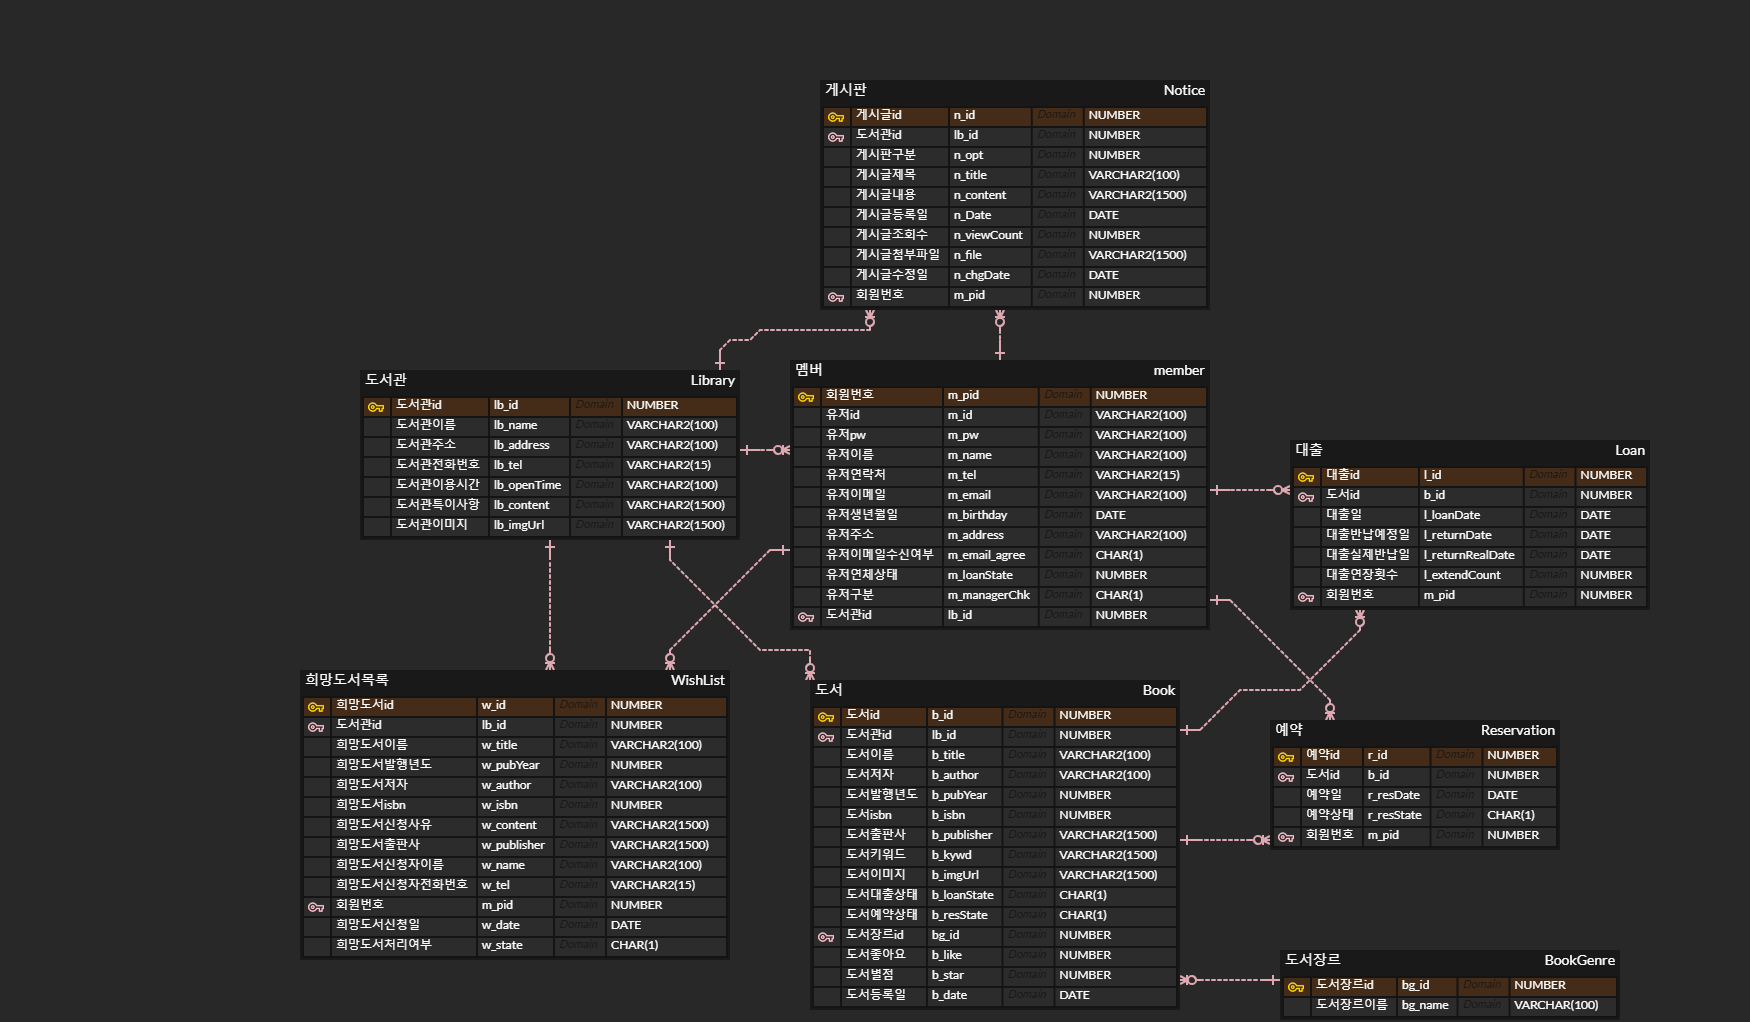
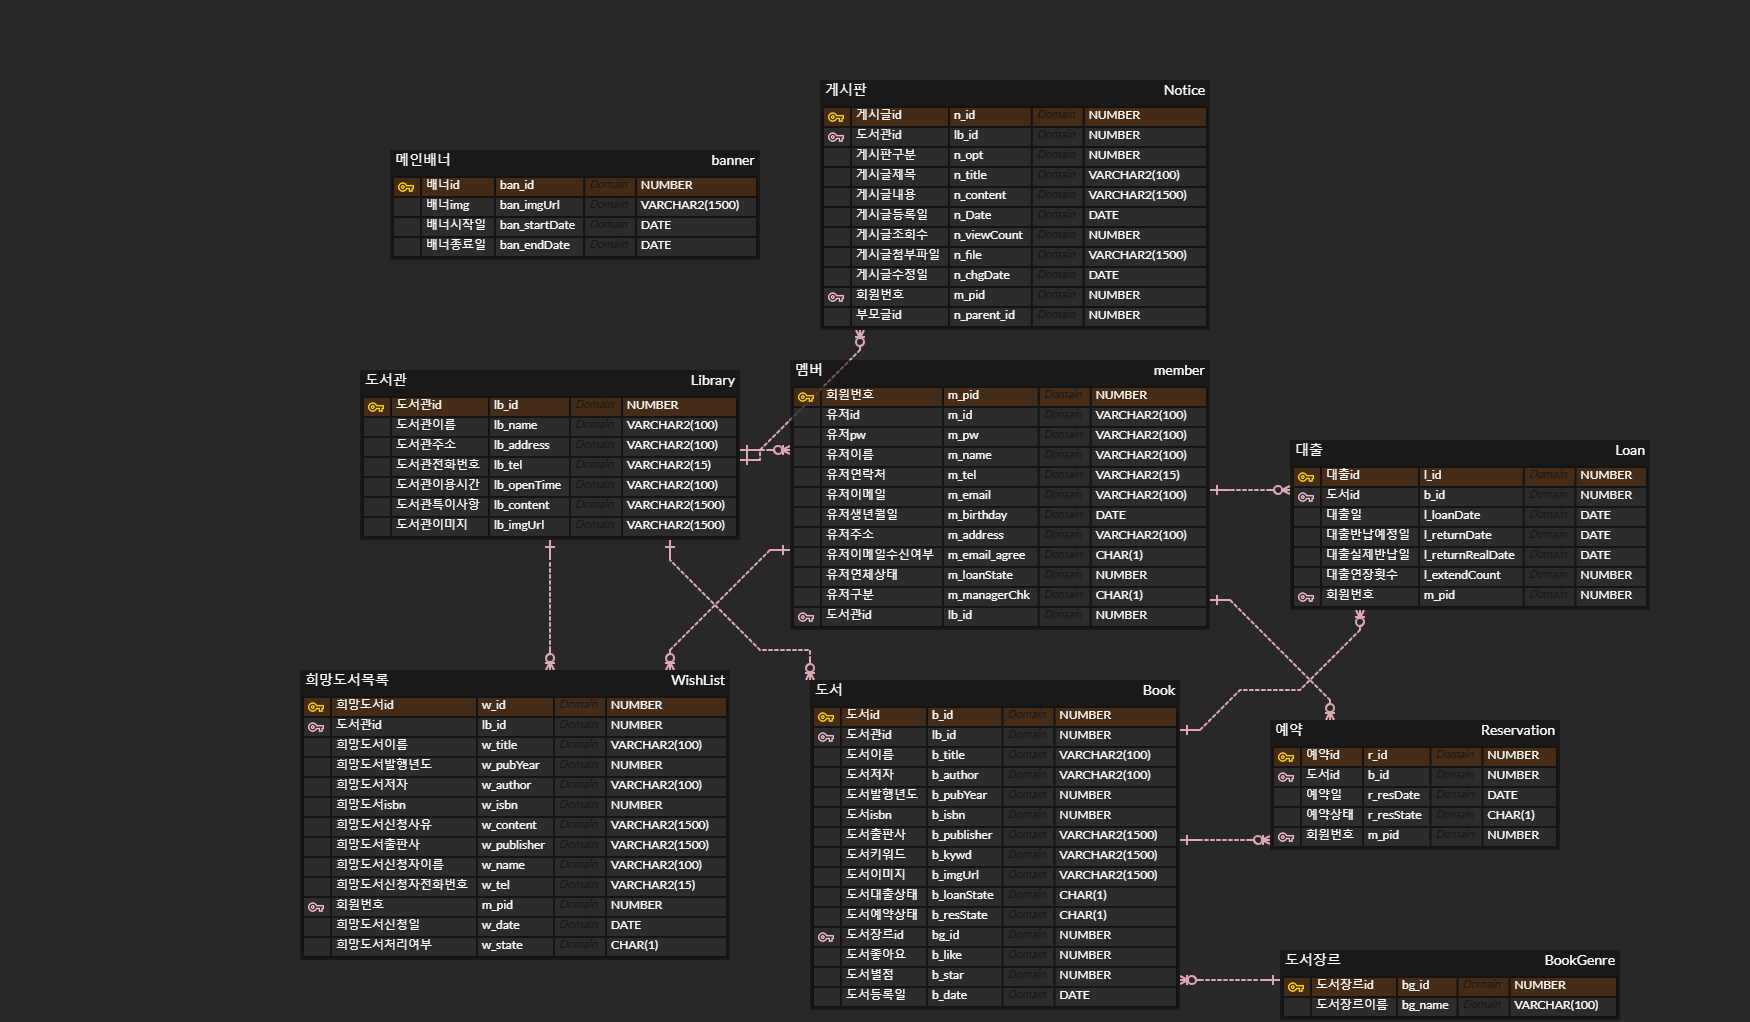
erd수정 및 메인배너기능 수정

diff --git a/java&jsp/src/main/java/carpedm/mainpages/mainServlet.java b/java&jsp/src/main/java/carpedm/mainpages/mainServlet.java
@@ -27,9 +27,13 @@ public class mainServlet extends HttpServlet {
 		ArrayList<Map<String, String>> notice_list = getDBList("select n_id,n_title,n_date from notice where n_opt = 0 order by n_id desc");
 		ArrayList<Map<String, String>> book_list = getDBList("select b_id,b_title,b_author,b_imgurl from book order by b_id desc");
 		ArrayList<Map<String, String>> library_list = getDBList("select lb_name,lb_opentime,lb_address,lb_tel,lb_content from library");
+		ArrayList<Map<String, String>> banner_list = getDBList("select * from banner");
+		
+		System.out.println(banner_list);
 		request.setAttribute("notice_list", notice_list);
 		request.setAttribute("book_list", book_list);
 		request.setAttribute("library_list", library_list);
+		request.setAttribute("banner_list", banner_list);
 //		System.out.println(notice_list);
 		request.getRequestDispatcher("/mainpages/main.jsp").forward(request, response);
 	}
